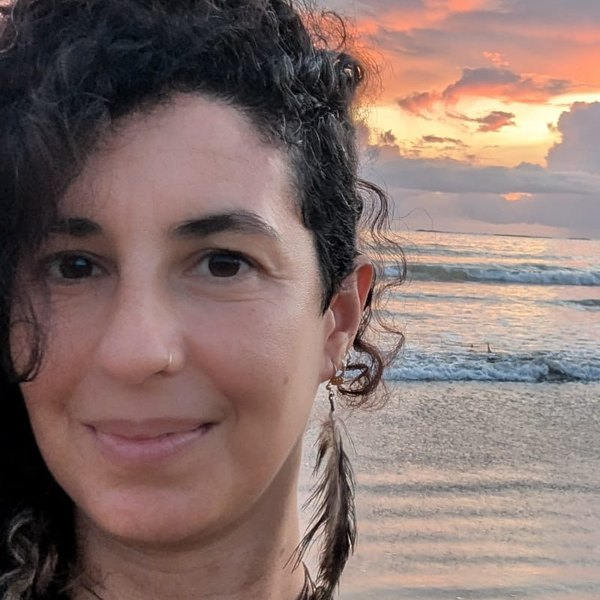
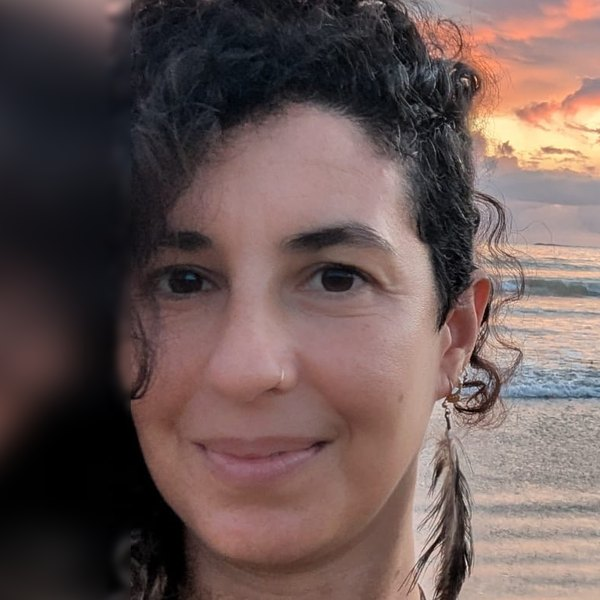
Equipo: foto de Sol centrada y con más aire

diff --git a/site/fr/qui-sommes-nous.html b/site/fr/qui-sommes-nous.html
@@ -19,7 +19,7 @@
   <link rel="preconnect" href="https://fonts.googleapis.com">
   <link rel="preconnect" href="https://fonts.gstatic.com" crossorigin>
   <link href="https://fonts.googleapis.com/css2?family=Alegreya:ital,wght@0,500;0,700;1,500&family=Alegreya+Sans:wght@400;500;700&display=swap" rel="stylesheet">
-  <link rel="stylesheet" href="../assets/styles.css?v=1790132010">
+  <link rel="stylesheet" href="../assets/styles.css?v=1790132184">
   <script type="application/ld+json">
   {
     "@context": "https://schema.org",
@@ -160,13 +160,13 @@
           <p class="lead muted">Une équipe engagée pour l'éducation communautaire.</p>
         </div>
         <div class="team reveal">
-          <div class="person"><div class="person__avatar person__avatar--photo"><img src="../assets/team/nelly-bordelais.jpg?v=1790132010" alt="" width="600" height="600" decoding="async"></div><h3>Nelly Bordelais</h3><p>Direction et coordination</p></div>
+          <div class="person"><div class="person__avatar person__avatar--photo"><img src="../assets/team/nelly-bordelais.jpg?v=1790132184" alt="" width="600" height="600" decoding="async"></div><h3>Nelly Bordelais</h3><p>Direction et coordination</p></div>
           <div class="person"><div class="person__avatar">DV</div><h3>Dafne Mireya Valdez</h3><p>Enseignante principale</p></div>
           <div class="person"><div class="person__avatar">IG</div><h3>Ixchel Gómez</h3><p>Responsable de la gestion du patrimoine</p></div>
-          <div class="person"><div class="person__avatar person__avatar--photo"><img src="../assets/team/sol-perez-weinberg.jpg?v=1790132010" alt="" width="600" height="600" decoding="async"></div><h3>Sol Pérez Weinberg</h3><p>Responsable de la communication et de la diffusion</p></div>
+          <div class="person"><div class="person__avatar person__avatar--photo"><img src="../assets/team/sol-perez-weinberg.jpg?v=1790132184" alt="" width="600" height="600" decoding="async"></div><h3>Sol Pérez Weinberg</h3><p>Responsable de la communication et de la diffusion</p></div>
           <div class="person"><div class="person__avatar">EP</div><h3>Elisa Pérez</h3><p>Relations publiques</p></div>
           <div class="person"><div class="person__avatar">DA</div><h3>Diego Alvidez Carbajal</h3><p>Enseignant de construction et menuiserie</p></div>
-          <div class="person"><div class="person__avatar person__avatar--photo"><img src="../assets/team/ofir-perez-weinberg.jpg?v=1790132010" alt="" width="600" height="600" decoding="async"></div><h3>Ofir Pérez Weinberg</h3><p>Conseiller et enseignant d'entrepreneuriat</p></div>
+          <div class="person"><div class="person__avatar person__avatar--photo"><img src="../assets/team/ofir-perez-weinberg.jpg?v=1790132184" alt="" width="600" height="600" decoding="async"></div><h3>Ofir Pérez Weinberg</h3><p>Conseiller et enseignant d'entrepreneuriat</p></div>
           <div class="person"><div class="person__avatar">MC</div><h3>Mercedes Crespo</h3><p>Conseillère et enseignante de dessin et d'art</p></div>
         </div>
       </div>
@@ -226,7 +226,7 @@
 
   <a class="wa-float" data-wa href="#" aria-label="Écrivez-nous sur WhatsApp"><svg viewBox="0 0 24 24" fill="currentColor" aria-hidden="true"><path d="M12 2a10 10 0 0 0-8.6 15.1L2 22l5-1.3A10 10 0 1 0 12 2zm0 18.2a8.2 8.2 0 0 1-4.2-1.2l-.3-.2-3 .8.8-2.9-.2-.3A8.2 8.2 0 1 1 12 20.2zm4.5-6.1c-.2-.1-1.5-.7-1.7-.8s-.4-.1-.6.1-.6.8-.8 1-.3.2-.5.1a6.7 6.7 0 0 1-3.3-2.9c-.3-.4.3-.4.7-1.3.1-.2 0-.3 0-.4l-.8-1.8c-.2-.5-.4-.4-.6-.4h-.5a1 1 0 0 0-.7.3 3 3 0 0 0-.9 2.2 5.2 5.2 0 0 0 1.1 2.8 12 12 0 0 0 4.6 4c.6.3 1.1.4 1.5.5a3.6 3.6 0 0 0 1.6.1 2.7 2.7 0 0 0 1.8-1.2 2.2 2.2 0 0 0 .1-1.2c0-.1-.2-.2-.5-.3z"/></svg></a>
 
-  <script src="../assets/config.js?v=1790132010"></script>
-  <script src="../assets/main.js?v=1790132010"></script>
+  <script src="../assets/config.js?v=1790132184"></script>
+  <script src="../assets/main.js?v=1790132184"></script>
 </body>
 </html>

diff --git a/site/quienes-somos.html b/site/quienes-somos.html
@@ -19,7 +19,7 @@
   <link rel="preconnect" href="https://fonts.googleapis.com">
   <link rel="preconnect" href="https://fonts.gstatic.com" crossorigin>
   <link href="https://fonts.googleapis.com/css2?family=Alegreya:ital,wght@0,500;0,700;1,500&family=Alegreya+Sans:wght@400;500;700&display=swap" rel="stylesheet">
-  <link rel="stylesheet" href="assets/styles.css?v=1790132010">
+  <link rel="stylesheet" href="assets/styles.css?v=1790132184">
   <script type="application/ld+json">
   {
     "@context": "https://schema.org",
@@ -160,13 +160,13 @@
           <p class="lead muted">Un equipo comprometido con la educación comunitaria.</p>
         </div>
         <div class="team reveal">
-          <div class="person"><div class="person__avatar person__avatar--photo"><img src="assets/team/nelly-bordelais.jpg?v=1790132010" alt="" width="600" height="600" decoding="async"></div><h3>Nelly Bordelais</h3><p>Dirección y coordinación</p></div>
+          <div class="person"><div class="person__avatar person__avatar--photo"><img src="assets/team/nelly-bordelais.jpg?v=1790132184" alt="" width="600" height="600" decoding="async"></div><h3>Nelly Bordelais</h3><p>Dirección y coordinación</p></div>
           <div class="person"><div class="person__avatar">DV</div><h3>Dafne Mireya Valdez</h3><p>Maestra principal</p></div>
           <div class="person"><div class="person__avatar">IG</div><h3>Ixchel Gómez</h3><p>Responsable de gestión del patrimonio</p></div>
-          <div class="person"><div class="person__avatar person__avatar--photo"><img src="assets/team/sol-perez-weinberg.jpg?v=1790132010" alt="" width="600" height="600" decoding="async"></div><h3>Sol Pérez Weinberg</h3><p>Responsable de comunicación y difusión</p></div>
+          <div class="person"><div class="person__avatar person__avatar--photo"><img src="assets/team/sol-perez-weinberg.jpg?v=1790132184" alt="" width="600" height="600" decoding="async"></div><h3>Sol Pérez Weinberg</h3><p>Responsable de comunicación y difusión</p></div>
           <div class="person"><div class="person__avatar">EP</div><h3>Elisa Pérez</h3><p>Relaciones públicas</p></div>
           <div class="person"><div class="person__avatar">DA</div><h3>Diego Alvidez Carbajal</h3><p>Maestro de construcción y carpintería</p></div>
-          <div class="person"><div class="person__avatar person__avatar--photo"><img src="assets/team/ofir-perez-weinberg.jpg?v=1790132010" alt="" width="600" height="600" decoding="async"></div><h3>Ofir Pérez Weinberg</h3><p>Consejero y maestro de emprendimiento</p></div>
+          <div class="person"><div class="person__avatar person__avatar--photo"><img src="assets/team/ofir-perez-weinberg.jpg?v=1790132184" alt="" width="600" height="600" decoding="async"></div><h3>Ofir Pérez Weinberg</h3><p>Consejero y maestro de emprendimiento</p></div>
           <div class="person"><div class="person__avatar">MC</div><h3>Mercedes Crespo</h3><p>Consejera y maestra de dibujo y arte</p></div>
         </div>
       </div>
@@ -226,7 +226,7 @@
 
   <a class="wa-float" data-wa href="#" aria-label="Escríbenos por WhatsApp"><svg viewBox="0 0 24 24" fill="currentColor" aria-hidden="true"><path d="M12 2a10 10 0 0 0-8.6 15.1L2 22l5-1.3A10 10 0 1 0 12 2zm0 18.2a8.2 8.2 0 0 1-4.2-1.2l-.3-.2-3 .8.8-2.9-.2-.3A8.2 8.2 0 1 1 12 20.2zm4.5-6.1c-.2-.1-1.5-.7-1.7-.8s-.4-.1-.6.1-.6.8-.8 1-.3.2-.5.1a6.7 6.7 0 0 1-3.3-2.9c-.3-.4.3-.4.7-1.3.1-.2 0-.3 0-.4l-.8-1.8c-.2-.5-.4-.4-.6-.4h-.5a1 1 0 0 0-.7.3 3 3 0 0 0-.9 2.2 5.2 5.2 0 0 0 1.1 2.8 12 12 0 0 0 4.6 4c.6.3 1.1.4 1.5.5a3.6 3.6 0 0 0 1.6.1 2.7 2.7 0 0 0 1.8-1.2 2.2 2.2 0 0 0 .1-1.2c0-.1-.2-.2-.5-.3z"/></svg></a>
 
-  <script src="assets/config.js?v=1790132010"></script>
-  <script src="assets/main.js?v=1790132010"></script>
+  <script src="assets/config.js?v=1790132184"></script>
+  <script src="assets/main.js?v=1790132184"></script>
 </body>
 </html>

diff --git a/site/en/about.html b/site/en/about.html
@@ -19,7 +19,7 @@
   <link rel="preconnect" href="https://fonts.googleapis.com">
   <link rel="preconnect" href="https://fonts.gstatic.com" crossorigin>
   <link href="https://fonts.googleapis.com/css2?family=Alegreya:ital,wght@0,500;0,700;1,500&family=Alegreya+Sans:wght@400;500;700&display=swap" rel="stylesheet">
-  <link rel="stylesheet" href="../assets/styles.css?v=1790132010">
+  <link rel="stylesheet" href="../assets/styles.css?v=1790132184">
   <script type="application/ld+json">
   {
     "@context": "https://schema.org",
@@ -160,13 +160,13 @@
           <p class="lead muted">A team committed to community education.</p>
         </div>
         <div class="team reveal">
-          <div class="person"><div class="person__avatar person__avatar--photo"><img src="../assets/team/nelly-bordelais.jpg?v=1790132010" alt="" width="600" height="600" decoding="async"></div><h3>Nelly Bordelais</h3><p>Direction and coordination</p></div>
+          <div class="person"><div class="person__avatar person__avatar--photo"><img src="../assets/team/nelly-bordelais.jpg?v=1790132184" alt="" width="600" height="600" decoding="async"></div><h3>Nelly Bordelais</h3><p>Direction and coordination</p></div>
           <div class="person"><div class="person__avatar">DV</div><h3>Dafne Mireya Valdez</h3><p>Lead teacher</p></div>
           <div class="person"><div class="person__avatar">IG</div><h3>Ixchel Gómez</h3><p>Heritage and assets management</p></div>
-          <div class="person"><div class="person__avatar person__avatar--photo"><img src="../assets/team/sol-perez-weinberg.jpg?v=1790132010" alt="" width="600" height="600" decoding="async"></div><h3>Sol Pérez Weinberg</h3><p>Communication and outreach</p></div>
+          <div class="person"><div class="person__avatar person__avatar--photo"><img src="../assets/team/sol-perez-weinberg.jpg?v=1790132184" alt="" width="600" height="600" decoding="async"></div><h3>Sol Pérez Weinberg</h3><p>Communication and outreach</p></div>
           <div class="person"><div class="person__avatar">EP</div><h3>Elisa Pérez</h3><p>Public relations</p></div>
           <div class="person"><div class="person__avatar">DA</div><h3>Diego Alvidez Carbajal</h3><p>Construction and carpentry teacher</p></div>
-          <div class="person"><div class="person__avatar person__avatar--photo"><img src="../assets/team/ofir-perez-weinberg.jpg?v=1790132010" alt="" width="600" height="600" decoding="async"></div><h3>Ofir Pérez Weinberg</h3><p>Advisor; entrepreneurship teacher</p></div>
+          <div class="person"><div class="person__avatar person__avatar--photo"><img src="../assets/team/ofir-perez-weinberg.jpg?v=1790132184" alt="" width="600" height="600" decoding="async"></div><h3>Ofir Pérez Weinberg</h3><p>Advisor; entrepreneurship teacher</p></div>
           <div class="person"><div class="person__avatar">MC</div><h3>Mercedes Crespo</h3><p>Advisor; drawing and art teacher</p></div>
         </div>
       </div>
@@ -226,7 +226,7 @@
 
   <a class="wa-float" data-wa href="#" aria-label="Message us on WhatsApp"><svg viewBox="0 0 24 24" fill="currentColor" aria-hidden="true"><path d="M12 2a10 10 0 0 0-8.6 15.1L2 22l5-1.3A10 10 0 1 0 12 2zm0 18.2a8.2 8.2 0 0 1-4.2-1.2l-.3-.2-3 .8.8-2.9-.2-.3A8.2 8.2 0 1 1 12 20.2zm4.5-6.1c-.2-.1-1.5-.7-1.7-.8s-.4-.1-.6.1-.6.8-.8 1-.3.2-.5.1a6.7 6.7 0 0 1-3.3-2.9c-.3-.4.3-.4.7-1.3.1-.2 0-.3 0-.4l-.8-1.8c-.2-.5-.4-.4-.6-.4h-.5a1 1 0 0 0-.7.3 3 3 0 0 0-.9 2.2 5.2 5.2 0 0 0 1.1 2.8 12 12 0 0 0 4.6 4c.6.3 1.1.4 1.5.5a3.6 3.6 0 0 0 1.6.1 2.7 2.7 0 0 0 1.8-1.2 2.2 2.2 0 0 0 .1-1.2c0-.1-.2-.2-.5-.3z"/></svg></a>
 
-  <script src="../assets/config.js?v=1790132010"></script>
-  <script src="../assets/main.js?v=1790132010"></script>
+  <script src="../assets/config.js?v=1790132184"></script>
+  <script src="../assets/main.js?v=1790132184"></script>
 </body>
 </html>

diff --git a/site/fr/bibliotheque.html b/site/fr/bibliotheque.html
@@ -19,7 +19,7 @@
   <link rel="preconnect" href="https://fonts.googleapis.com">
   <link rel="preconnect" href="https://fonts.gstatic.com" crossorigin>
   <link href="https://fonts.googleapis.com/css2?family=Alegreya:ital,wght@0,500;0,700;1,500&family=Alegreya+Sans:wght@400;500;700&display=swap" rel="stylesheet">
-  <link rel="stylesheet" href="../assets/styles.css?v=1790132010">
+  <link rel="stylesheet" href="../assets/styles.css?v=1790132184">
   <script type="application/ld+json">
   {
     "@context": "https://schema.org",
@@ -161,7 +161,7 @@
 
   <a class="wa-float" data-wa href="#" aria-label="Écrivez-nous sur WhatsApp"><svg viewBox="0 0 24 24" fill="currentColor" aria-hidden="true"><path d="M12 2a10 10 0 0 0-8.6 15.1L2 22l5-1.3A10 10 0 1 0 12 2zm0 18.2a8.2 8.2 0 0 1-4.2-1.2l-.3-.2-3 .8.8-2.9-.2-.3A8.2 8.2 0 1 1 12 20.2zm4.5-6.1c-.2-.1-1.5-.7-1.7-.8s-.4-.1-.6.1-.6.8-.8 1-.3.2-.5.1a6.7 6.7 0 0 1-3.3-2.9c-.3-.4.3-.4.7-1.3.1-.2 0-.3 0-.4l-.8-1.8c-.2-.5-.4-.4-.6-.4h-.5a1 1 0 0 0-.7.3 3 3 0 0 0-.9 2.2 5.2 5.2 0 0 0 1.1 2.8 12 12 0 0 0 4.6 4c.6.3 1.1.4 1.5.5a3.6 3.6 0 0 0 1.6.1 2.7 2.7 0 0 0 1.8-1.2 2.2 2.2 0 0 0 .1-1.2c0-.1-.2-.2-.5-.3z"/></svg></a>
 
-  <script src="../assets/config.js?v=1790132010"></script>
-  <script src="../assets/main.js?v=1790132010"></script>
+  <script src="../assets/config.js?v=1790132184"></script>
+  <script src="../assets/main.js?v=1790132184"></script>
 </body>
 </html>

diff --git a/site/fr/faq.html b/site/fr/faq.html
@@ -19,7 +19,7 @@
   <link rel="preconnect" href="https://fonts.googleapis.com">
   <link rel="preconnect" href="https://fonts.gstatic.com" crossorigin>
   <link href="https://fonts.googleapis.com/css2?family=Alegreya:ital,wght@0,500;0,700;1,500&family=Alegreya+Sans:wght@400;500;700&display=swap" rel="stylesheet">
-  <link rel="stylesheet" href="../assets/styles.css?v=1790132010">
+  <link rel="stylesheet" href="../assets/styles.css?v=1790132184">
   <script type="application/ld+json">
   {
     "@context": "https://schema.org",
@@ -197,7 +197,7 @@
 
   <a class="wa-float" data-wa href="#" aria-label="Écrivez-nous sur WhatsApp"><svg viewBox="0 0 24 24" fill="currentColor" aria-hidden="true"><path d="M12 2a10 10 0 0 0-8.6 15.1L2 22l5-1.3A10 10 0 1 0 12 2zm0 18.2a8.2 8.2 0 0 1-4.2-1.2l-.3-.2-3 .8.8-2.9-.2-.3A8.2 8.2 0 1 1 12 20.2zm4.5-6.1c-.2-.1-1.5-.7-1.7-.8s-.4-.1-.6.1-.6.8-.8 1-.3.2-.5.1a6.7 6.7 0 0 1-3.3-2.9c-.3-.4.3-.4.7-1.3.1-.2 0-.3 0-.4l-.8-1.8c-.2-.5-.4-.4-.6-.4h-.5a1 1 0 0 0-.7.3 3 3 0 0 0-.9 2.2 5.2 5.2 0 0 0 1.1 2.8 12 12 0 0 0 4.6 4c.6.3 1.1.4 1.5.5a3.6 3.6 0 0 0 1.6.1 2.7 2.7 0 0 0 1.8-1.2 2.2 2.2 0 0 0 .1-1.2c0-.1-.2-.2-.5-.3z"/></svg></a>
 
-  <script src="../assets/config.js?v=1790132010"></script>
-  <script src="../assets/main.js?v=1790132010"></script>
+  <script src="../assets/config.js?v=1790132184"></script>
+  <script src="../assets/main.js?v=1790132184"></script>
 </body>
 </html>

diff --git a/site/fr/index.html b/site/fr/index.html
@@ -19,7 +19,7 @@
   <link rel="preconnect" href="https://fonts.googleapis.com">
   <link rel="preconnect" href="https://fonts.gstatic.com" crossorigin>
   <link href="https://fonts.googleapis.com/css2?family=Alegreya:ital,wght@0,500;0,700;1,500&family=Alegreya+Sans:wght@400;500;700&display=swap" rel="stylesheet">
-  <link rel="stylesheet" href="../assets/styles.css?v=1790132010">
+  <link rel="stylesheet" href="../assets/styles.css?v=1790132184">
   <script type="application/ld+json">
   {
     "@context": "https://schema.org",
@@ -220,7 +220,7 @@
 
   <a class="wa-float" data-wa href="#" aria-label="Écrivez-nous sur WhatsApp"><svg viewBox="0 0 24 24" fill="currentColor" aria-hidden="true"><path d="M12 2a10 10 0 0 0-8.6 15.1L2 22l5-1.3A10 10 0 1 0 12 2zm0 18.2a8.2 8.2 0 0 1-4.2-1.2l-.3-.2-3 .8.8-2.9-.2-.3A8.2 8.2 0 1 1 12 20.2zm4.5-6.1c-.2-.1-1.5-.7-1.7-.8s-.4-.1-.6.1-.6.8-.8 1-.3.2-.5.1a6.7 6.7 0 0 1-3.3-2.9c-.3-.4.3-.4.7-1.3.1-.2 0-.3 0-.4l-.8-1.8c-.2-.5-.4-.4-.6-.4h-.5a1 1 0 0 0-.7.3 3 3 0 0 0-.9 2.2 5.2 5.2 0 0 0 1.1 2.8 12 12 0 0 0 4.6 4c.6.3 1.1.4 1.5.5a3.6 3.6 0 0 0 1.6.1 2.7 2.7 0 0 0 1.8-1.2 2.2 2.2 0 0 0 .1-1.2c0-.1-.2-.2-.5-.3z"/></svg></a>
 
-  <script src="../assets/config.js?v=1790132010"></script>
-  <script src="../assets/main.js?v=1790132010"></script>
+  <script src="../assets/config.js?v=1790132184"></script>
+  <script src="../assets/main.js?v=1790132184"></script>
 </body>
 </html>

diff --git a/site/fr/inscriptions.html b/site/fr/inscriptions.html
@@ -19,7 +19,7 @@
   <link rel="preconnect" href="https://fonts.googleapis.com">
   <link rel="preconnect" href="https://fonts.gstatic.com" crossorigin>
   <link href="https://fonts.googleapis.com/css2?family=Alegreya:ital,wght@0,500;0,700;1,500&family=Alegreya+Sans:wght@400;500;700&display=swap" rel="stylesheet">
-  <link rel="stylesheet" href="../assets/styles.css?v=1790132010">
+  <link rel="stylesheet" href="../assets/styles.css?v=1790132184">
   <script type="application/ld+json">
   {
     "@context": "https://schema.org",
@@ -235,7 +235,7 @@
 
   <a class="wa-float" data-wa href="#" aria-label="Écrivez-nous sur WhatsApp"><svg viewBox="0 0 24 24" fill="currentColor" aria-hidden="true"><path d="M12 2a10 10 0 0 0-8.6 15.1L2 22l5-1.3A10 10 0 1 0 12 2zm0 18.2a8.2 8.2 0 0 1-4.2-1.2l-.3-.2-3 .8.8-2.9-.2-.3A8.2 8.2 0 1 1 12 20.2zm4.5-6.1c-.2-.1-1.5-.7-1.7-.8s-.4-.1-.6.1-.6.8-.8 1-.3.2-.5.1a6.7 6.7 0 0 1-3.3-2.9c-.3-.4.3-.4.7-1.3.1-.2 0-.3 0-.4l-.8-1.8c-.2-.5-.4-.4-.6-.4h-.5a1 1 0 0 0-.7.3 3 3 0 0 0-.9 2.2 5.2 5.2 0 0 0 1.1 2.8 12 12 0 0 0 4.6 4c.6.3 1.1.4 1.5.5a3.6 3.6 0 0 0 1.6.1 2.7 2.7 0 0 0 1.8-1.2 2.2 2.2 0 0 0 .1-1.2c0-.1-.2-.2-.5-.3z"/></svg></a>
 
-  <script src="../assets/config.js?v=1790132010"></script>
-  <script src="../assets/main.js?v=1790132010"></script>
+  <script src="../assets/config.js?v=1790132184"></script>
+  <script src="../assets/main.js?v=1790132184"></script>
 </body>
 </html>

diff --git a/site/fr/projet-educatif.html b/site/fr/projet-educatif.html
@@ -19,7 +19,7 @@
   <link rel="preconnect" href="https://fonts.googleapis.com">
   <link rel="preconnect" href="https://fonts.gstatic.com" crossorigin>
   <link href="https://fonts.googleapis.com/css2?family=Alegreya:ital,wght@0,500;0,700;1,500&family=Alegreya+Sans:wght@400;500;700&display=swap" rel="stylesheet">
-  <link rel="stylesheet" href="../assets/styles.css?v=1790132010">
+  <link rel="stylesheet" href="../assets/styles.css?v=1790132184">
   <script type="application/ld+json">
   {
     "@context": "https://schema.org",
@@ -229,7 +229,7 @@
 
   <a class="wa-float" data-wa href="#" aria-label="Écrivez-nous sur WhatsApp"><svg viewBox="0 0 24 24" fill="currentColor" aria-hidden="true"><path d="M12 2a10 10 0 0 0-8.6 15.1L2 22l5-1.3A10 10 0 1 0 12 2zm0 18.2a8.2 8.2 0 0 1-4.2-1.2l-.3-.2-3 .8.8-2.9-.2-.3A8.2 8.2 0 1 1 12 20.2zm4.5-6.1c-.2-.1-1.5-.7-1.7-.8s-.4-.1-.6.1-.6.8-.8 1-.3.2-.5.1a6.7 6.7 0 0 1-3.3-2.9c-.3-.4.3-.4.7-1.3.1-.2 0-.3 0-.4l-.8-1.8c-.2-.5-.4-.4-.6-.4h-.5a1 1 0 0 0-.7.3 3 3 0 0 0-.9 2.2 5.2 5.2 0 0 0 1.1 2.8 12 12 0 0 0 4.6 4c.6.3 1.1.4 1.5.5a3.6 3.6 0 0 0 1.6.1 2.7 2.7 0 0 0 1.8-1.2 2.2 2.2 0 0 0 .1-1.2c0-.1-.2-.2-.5-.3z"/></svg></a>
 
-  <script src="../assets/config.js?v=1790132010"></script>
-  <script src="../assets/main.js?v=1790132010"></script>
+  <script src="../assets/config.js?v=1790132184"></script>
+  <script src="../assets/main.js?v=1790132184"></script>
 </body>
 </html>

diff --git a/site/en/educational-project.html b/site/en/educational-project.html
@@ -19,7 +19,7 @@
   <link rel="preconnect" href="https://fonts.googleapis.com">
   <link rel="preconnect" href="https://fonts.gstatic.com" crossorigin>
   <link href="https://fonts.googleapis.com/css2?family=Alegreya:ital,wght@0,500;0,700;1,500&family=Alegreya+Sans:wght@400;500;700&display=swap" rel="stylesheet">
-  <link rel="stylesheet" href="../assets/styles.css?v=1790132010">
+  <link rel="stylesheet" href="../assets/styles.css?v=1790132184">
   <script type="application/ld+json">
   {
     "@context": "https://schema.org",
@@ -229,7 +229,7 @@
 
   <a class="wa-float" data-wa href="#" aria-label="Message us on WhatsApp"><svg viewBox="0 0 24 24" fill="currentColor" aria-hidden="true"><path d="M12 2a10 10 0 0 0-8.6 15.1L2 22l5-1.3A10 10 0 1 0 12 2zm0 18.2a8.2 8.2 0 0 1-4.2-1.2l-.3-.2-3 .8.8-2.9-.2-.3A8.2 8.2 0 1 1 12 20.2zm4.5-6.1c-.2-.1-1.5-.7-1.7-.8s-.4-.1-.6.1-.6.8-.8 1-.3.2-.5.1a6.7 6.7 0 0 1-3.3-2.9c-.3-.4.3-.4.7-1.3.1-.2 0-.3 0-.4l-.8-1.8c-.2-.5-.4-.4-.6-.4h-.5a1 1 0 0 0-.7.3 3 3 0 0 0-.9 2.2 5.2 5.2 0 0 0 1.1 2.8 12 12 0 0 0 4.6 4c.6.3 1.1.4 1.5.5a3.6 3.6 0 0 0 1.6.1 2.7 2.7 0 0 0 1.8-1.2 2.2 2.2 0 0 0 .1-1.2c0-.1-.2-.2-.5-.3z"/></svg></a>
 
-  <script src="../assets/config.js?v=1790132010"></script>
-  <script src="../assets/main.js?v=1790132010"></script>
+  <script src="../assets/config.js?v=1790132184"></script>
+  <script src="../assets/main.js?v=1790132184"></script>
 </body>
 </html>

diff --git a/site/en/enrollment.html b/site/en/enrollment.html
@@ -19,7 +19,7 @@
   <link rel="preconnect" href="https://fonts.googleapis.com">
   <link rel="preconnect" href="https://fonts.gstatic.com" crossorigin>
   <link href="https://fonts.googleapis.com/css2?family=Alegreya:ital,wght@0,500;0,700;1,500&family=Alegreya+Sans:wght@400;500;700&display=swap" rel="stylesheet">
-  <link rel="stylesheet" href="../assets/styles.css?v=1790132010">
+  <link rel="stylesheet" href="../assets/styles.css?v=1790132184">
   <script type="application/ld+json">
   {
     "@context": "https://schema.org",
@@ -235,7 +235,7 @@
 
   <a class="wa-float" data-wa href="#" aria-label="Message us on WhatsApp"><svg viewBox="0 0 24 24" fill="currentColor" aria-hidden="true"><path d="M12 2a10 10 0 0 0-8.6 15.1L2 22l5-1.3A10 10 0 1 0 12 2zm0 18.2a8.2 8.2 0 0 1-4.2-1.2l-.3-.2-3 .8.8-2.9-.2-.3A8.2 8.2 0 1 1 12 20.2zm4.5-6.1c-.2-.1-1.5-.7-1.7-.8s-.4-.1-.6.1-.6.8-.8 1-.3.2-.5.1a6.7 6.7 0 0 1-3.3-2.9c-.3-.4.3-.4.7-1.3.1-.2 0-.3 0-.4l-.8-1.8c-.2-.5-.4-.4-.6-.4h-.5a1 1 0 0 0-.7.3 3 3 0 0 0-.9 2.2 5.2 5.2 0 0 0 1.1 2.8 12 12 0 0 0 4.6 4c.6.3 1.1.4 1.5.5a3.6 3.6 0 0 0 1.6.1 2.7 2.7 0 0 0 1.8-1.2 2.2 2.2 0 0 0 .1-1.2c0-.1-.2-.2-.5-.3z"/></svg></a>
 
-  <script src="../assets/config.js?v=1790132010"></script>
-  <script src="../assets/main.js?v=1790132010"></script>
+  <script src="../assets/config.js?v=1790132184"></script>
+  <script src="../assets/main.js?v=1790132184"></script>
 </body>
 </html>

diff --git a/site/en/faq.html b/site/en/faq.html
@@ -19,7 +19,7 @@
   <link rel="preconnect" href="https://fonts.googleapis.com">
   <link rel="preconnect" href="https://fonts.gstatic.com" crossorigin>
   <link href="https://fonts.googleapis.com/css2?family=Alegreya:ital,wght@0,500;0,700;1,500&family=Alegreya+Sans:wght@400;500;700&display=swap" rel="stylesheet">
-  <link rel="stylesheet" href="../assets/styles.css?v=1790132010">
+  <link rel="stylesheet" href="../assets/styles.css?v=1790132184">
   <script type="application/ld+json">
   {
     "@context": "https://schema.org",
@@ -197,7 +197,7 @@
 
   <a class="wa-float" data-wa href="#" aria-label="Message us on WhatsApp"><svg viewBox="0 0 24 24" fill="currentColor" aria-hidden="true"><path d="M12 2a10 10 0 0 0-8.6 15.1L2 22l5-1.3A10 10 0 1 0 12 2zm0 18.2a8.2 8.2 0 0 1-4.2-1.2l-.3-.2-3 .8.8-2.9-.2-.3A8.2 8.2 0 1 1 12 20.2zm4.5-6.1c-.2-.1-1.5-.7-1.7-.8s-.4-.1-.6.1-.6.8-.8 1-.3.2-.5.1a6.7 6.7 0 0 1-3.3-2.9c-.3-.4.3-.4.7-1.3.1-.2 0-.3 0-.4l-.8-1.8c-.2-.5-.4-.4-.6-.4h-.5a1 1 0 0 0-.7.3 3 3 0 0 0-.9 2.2 5.2 5.2 0 0 0 1.1 2.8 12 12 0 0 0 4.6 4c.6.3 1.1.4 1.5.5a3.6 3.6 0 0 0 1.6.1 2.7 2.7 0 0 0 1.8-1.2 2.2 2.2 0 0 0 .1-1.2c0-.1-.2-.2-.5-.3z"/></svg></a>
 
-  <script src="../assets/config.js?v=1790132010"></script>
-  <script src="../assets/main.js?v=1790132010"></script>
+  <script src="../assets/config.js?v=1790132184"></script>
+  <script src="../assets/main.js?v=1790132184"></script>
 </body>
 </html>

diff --git a/site/en/index.html b/site/en/index.html
@@ -19,7 +19,7 @@
   <link rel="preconnect" href="https://fonts.googleapis.com">
   <link rel="preconnect" href="https://fonts.gstatic.com" crossorigin>
   <link href="https://fonts.googleapis.com/css2?family=Alegreya:ital,wght@0,500;0,700;1,500&family=Alegreya+Sans:wght@400;500;700&display=swap" rel="stylesheet">
-  <link rel="stylesheet" href="../assets/styles.css?v=1790132010">
+  <link rel="stylesheet" href="../assets/styles.css?v=1790132184">
   <script type="application/ld+json">
   {
     "@context": "https://schema.org",
@@ -220,7 +220,7 @@
 
   <a class="wa-float" data-wa href="#" aria-label="Message us on WhatsApp"><svg viewBox="0 0 24 24" fill="currentColor" aria-hidden="true"><path d="M12 2a10 10 0 0 0-8.6 15.1L2 22l5-1.3A10 10 0 1 0 12 2zm0 18.2a8.2 8.2 0 0 1-4.2-1.2l-.3-.2-3 .8.8-2.9-.2-.3A8.2 8.2 0 1 1 12 20.2zm4.5-6.1c-.2-.1-1.5-.7-1.7-.8s-.4-.1-.6.1-.6.8-.8 1-.3.2-.5.1a6.7 6.7 0 0 1-3.3-2.9c-.3-.4.3-.4.7-1.3.1-.2 0-.3 0-.4l-.8-1.8c-.2-.5-.4-.4-.6-.4h-.5a1 1 0 0 0-.7.3 3 3 0 0 0-.9 2.2 5.2 5.2 0 0 0 1.1 2.8 12 12 0 0 0 4.6 4c.6.3 1.1.4 1.5.5a3.6 3.6 0 0 0 1.6.1 2.7 2.7 0 0 0 1.8-1.2 2.2 2.2 0 0 0 .1-1.2c0-.1-.2-.2-.5-.3z"/></svg></a>
 
-  <script src="../assets/config.js?v=1790132010"></script>
-  <script src="../assets/main.js?v=1790132010"></script>
+  <script src="../assets/config.js?v=1790132184"></script>
+  <script src="../assets/main.js?v=1790132184"></script>
 </body>
 </html>
